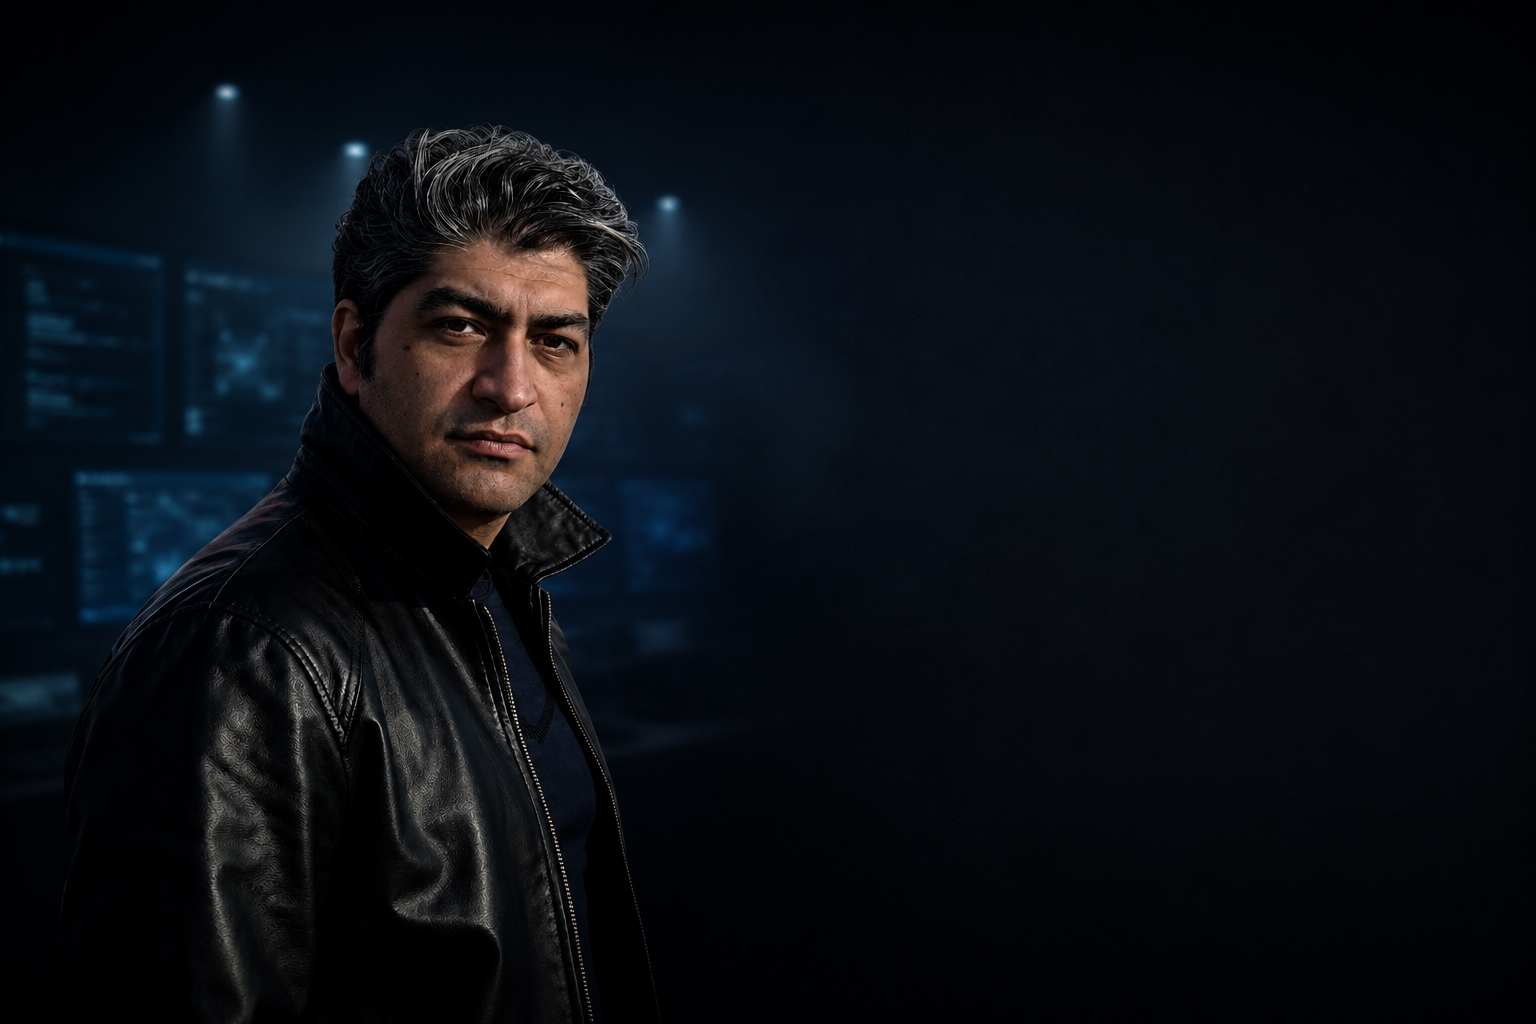
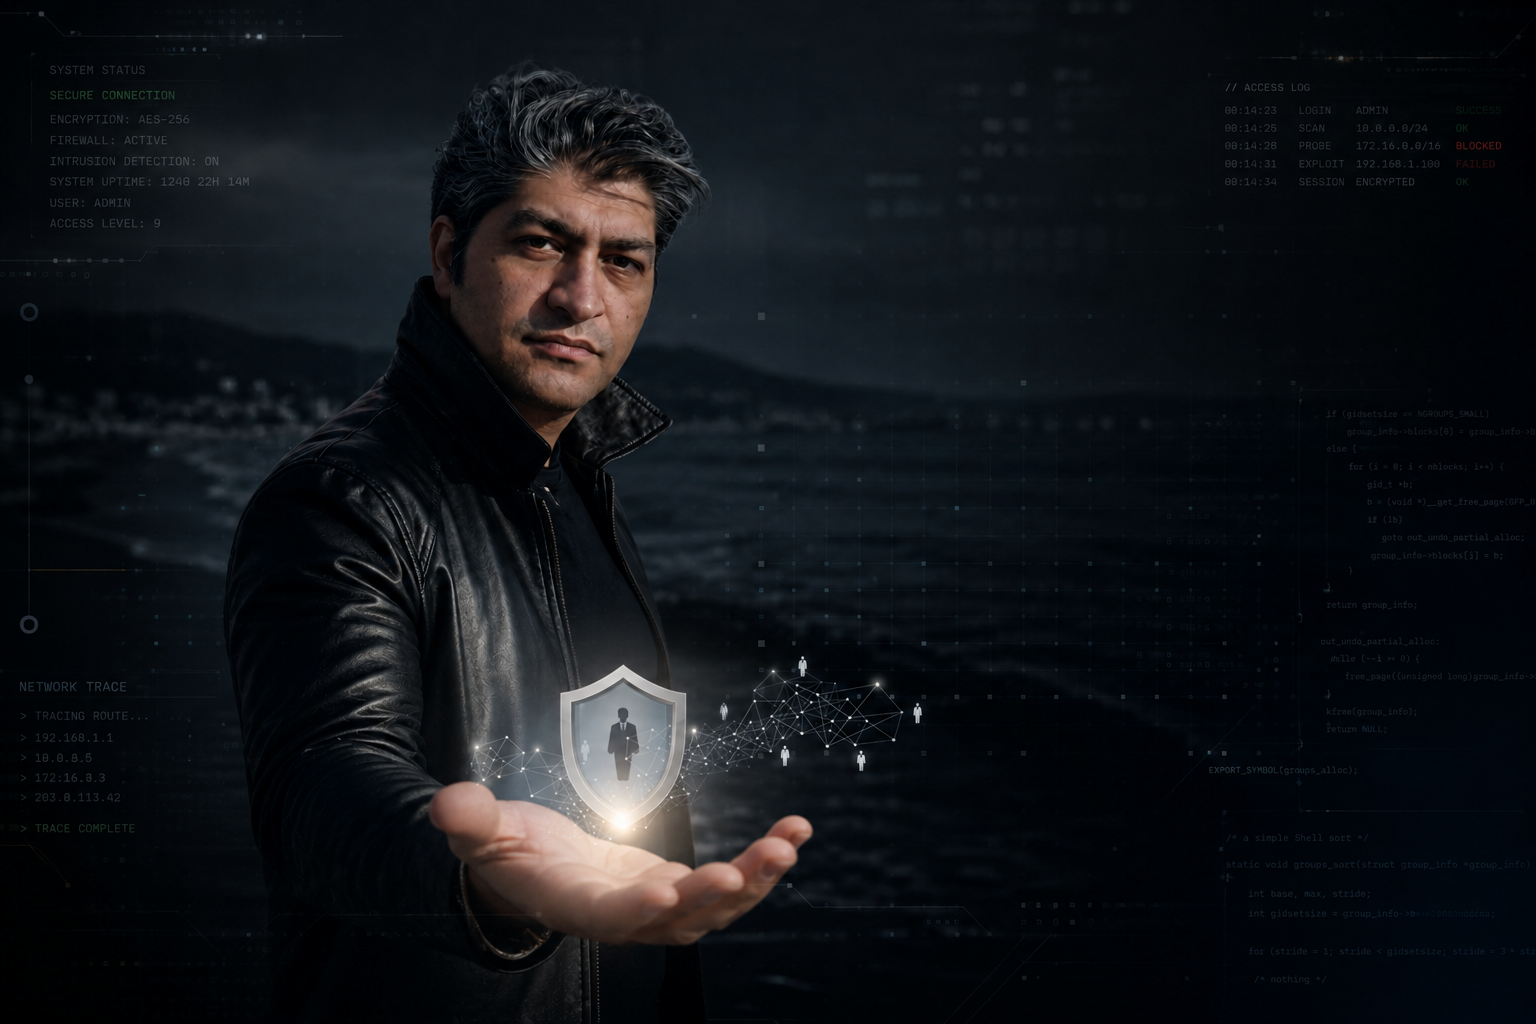
Add files via upload

diff --git a/index.html b/index.html
@@ -1,37 +1,202 @@
 <!DOCTYPE html>
-<html lang="en">
-
+<html lang="en" dir="ltr">
 <head>
-    <meta charset="UTF-8" />
-    <meta name="viewport" content="width=device-width, initial-scale=1.0" />
-    <meta name="theme-color" content="#050505" />
+    <meta charset="UTF-8">
+    <meta name="viewport" content="width=device-width, initial-scale=1.0">
+    <title>Kambiz Sardari • Cybersecurity Specialist</title>
+    <script src="https://cdn.tailwindcss.com"></script>
+    <link href="https://fonts.googleapis.com/css2?family=Inter:wght@400;500;600&amp;family=Space+Grotesk:wght@500;600&amp;display=swap" rel="stylesheet">
+    <style>
+        @import url('https://fonts.googleapis/css2?family=Inter:wght@400;500;600&amp;family=Space+Grotesk:wght@500;600&amp;display=swap');
 
-    <title>Under Construction</title>
+        .tail-container { font-family: 'Inter', system_ui, sans-serif; }
+        .logo-font { font-family: 'Space Grotesk', sans-serif; }
 
-    <link rel="stylesheet" href="style.css" />
+        .hero-bg {
+            background-image: url('background.png'); 
+            background-size: cover;
+            background-position: center;
+        }
+
+        .hero-bg::before {
+            content: '';
+            position: absolute;
+            inset: 0;
+            background: linear-gradient(to bottom, rgba(0,0,0,0.65) 40%, rgba(0,0,0,0.92) 100%);
+            transition: opacity 1.8s cubic-bezier(0.23, 1, 0.32, 1);
+            z-index: 1;
+        }
+
+        .scroll-indicator { animation: scrollAnim 2s infinite; }
+        @keyframes scrollAnim { 0%,100% {opacity:1;} 50%{opacity:0.4;} }
+
+        .nav-link { transition: all 0.3s cubic-bezier(0.4,0,0.2,1); }
+        .nav-link:hover { color:#00b4ff; transform:translateY(-1px); }
+
+        .card { transition: all 0.4s cubic-bezier(0.4,0,0.2,1); }
+        .card:hover { transform: translateY(-6px); }
+    </style>
 </head>
+<body class="bg-black text-white overflow-x-hidden">
 
-<body>
-
-    <!-- Background -->
-    <div class="background"></div>
-
-    <!-- Cinematic Overlay -->
-    <div class="vignette"></div>
-
-    <!-- Soft Light -->
-    <div class="top-light"></div>
-
-    <!-- Main Content -->
-    <main class="content">
-
-        <div class="title">
-            <span>UNDER</span>
-            <span>CONSTRUCTION</span>
+    <!-- HERO -->
+    <header id="hero" class="hero-bg min-h-screen flex items-center relative">
+        <div class="max-w-screen-2xl mx-auto px-8 text-center relative z-10">
+            <div class="max-w-3xl mx-auto">
+                <h1 class="text-5xl md:text-6xl font-semibold leading-none tracking-tighter logo-font mb-2">
+                    Kambiz Sardari
+                </h1>
+                <h2 class="text-4xl md:text-5xl font-semibold leading-none tracking-tighter logo-font text-white/90">
+                    Cybersecurity Specialist
+                </h2>
+            </div>
         </div>
 
-    </main>
+        <!-- SCROLL INDICATOR -->
+        <div class="absolute bottom-12 left-1/2 -translate-x-1/2 flex flex-col items-center scroll-indicator">
+            <div class="text-xs tracking-widest mb-3">SCROLL TO EXPLORE</div>
+            <div class="w-px h-12 bg-gradient-to-b from-transparent via-white/40 to-transparent"></div>
+        </div>
 
+        <!-- FADING HACKER -->
+        <div id="hacker" class="absolute bottom-0 left-0 right-0 h-2/3 bg-gradient-to-t from-black via-transparent to-transparent pointer-events-none"></div>
+
+        <!-- DECOR -->
+        <div class="absolute inset-0 bg-[radial-gradient(at_top_right,#00b4ff22_0%,transparent_50%)]"></div>
+    </header>
+
+    <!-- SERVICES -->
+    <section id="services" class="py-20 max-w-screen-2xl mx-auto px-8">
+        <div class="text-center mb-16">
+            <div class="logo-font text-4xl font-semibold tracking-tighter">My expertise</div>
+            <p class="text-white/60 mt-4 text-sm max-w-md mx-auto">Services based on science and real experiences</p>
+        </div>
+
+        <div class="grid grid-cols-1 sm:grid-cols-2 lg:grid-cols-3 gap-6">
+            <div class="card bg-white/5 border border-white/10 rounded-2xl p-6">
+                <div class="w-11 h-11 bg-emerald-500/10 rounded-2xl flex items-center justify-center mb-6">
+                    <span class="text-3xl">🔴</span>
+                </div>
+                <h3 class="text-xl font-semibold mb-2">Red Teaming</h3>
+                <p class="text-white/70 leading-relaxed text-xs">Simulate real attacks to expose vulnerabilities and strengthen defenses</p>
+                <div class="mt-8 text-xs text-white/50">• 14 years experience</div>
+            </div>
+
+            <div class="card bg-white/5 border border-white/10 rounded-2xl p-6">
+                <div class="w-11 h-11 bg-rose-500/10 rounded-2xl flex items-center justify-center mb-6">
+                    <span class="text-3xl">⛏️</span>
+                </div>
+                <h3 class="text-xl font-semibold mb-2">Penetration Testing</h3>
+                <p class="text-white/70 leading-relaxed text-xs">Professional ethical hacking to find and fix security weaknesses</p>
+                <div class="mt-8 text-xs text-white/50">• 98% satisfaction</div>
+            </div>
+
+            <div class="card bg-white/5 border border-white/10 rounded-2xl p-6">
+                <div class="w-11 h-11 bg-amber-500/10 rounded-2xl flex items-center justify-center mb-6">
+                    <span class="text-3xl">🛡️</span>
+                </div>
+                <h3 class="text-xl font-semibold mb-2">Incident Response</h3>
+                <p class="text-white/70 leading-relaxed text-xs">Rapid containment and recovery from security breaches</p>
+                <div class="mt-8 text-xs text-white/50">• 100% mobile</div>
+            </div>
+
+            <div class="card bg-white/5 border border-white/10 rounded-2xl p-6">
+                <div class="w-11 h-11 bg-violet-500/10 rounded-2xl flex items-center justify-center mb-6">
+                    <span class="text-3xl">🔒</span>
+                </div>
+                <h3 class="text-xl font-semibold mb-2">Zero Trust Architecture</h3>
+                <p class="text-white/70 leading-relaxed text-xs">Modern security model assuming breach at any moment</p>
+                <div class="mt-8 text-xs text-white/50">• 14 years experience</div>
+            </div>
+
+            <div class="card bg-white/5 border border-white/10 rounded-2xl p-6">
+                <div class="w-11 h-11 bg-sky-500/10 rounded-2xl flex items-center justify-center mb-6">
+                    <span class="text-3xl">🔍</span>
+                </div>
+                <h3 class="text-xl font-semibold mb-2">Threat Hunting</h3>
+                <p class="text-white/70 leading-relaxed text-xs">Proactive search for hidden threats in your environment</p>
+                <div class="mt-8 text-xs text-white/50">• 98% satisfaction</div>
+            </div>
+
+            <div class="card bg-white/5 border border-white/10 rounded-2xl p-6">
+                <div class="w-11 h-11 bg-emerald-500/10 rounded-2xl flex items-center justify-center mb-6">
+                    <span class="text-3xl">📊</span>
+                </div>
+                <h3 class="text-xl font-semibold mb-2">Security Automation</h3>
+                <p class="text-white/70 leading-relaxed text-xs">AI-driven scripts and tools to respond to threats instantly</p>
+                <div class="mt-8 text-xs text-white/50">• 100% mobile</div>
+            </div>
+        </div>
+    </section>
+
+    <!-- CONTACT -->
+    <section id="contact" class="py-28 border-t border-white/10">
+        <div class="max-w-screen-2xl mx-auto px-8">
+            <div class="grid md:grid-cols-12 gap-16">
+                <div class="md:col-span-5">
+                    <div class="sticky top-28">
+                        <div class="logo-font text-5xl font-semibold tracking-tighter">Trust is not given. It is earned.</div>
+                        <p class="text-white/60 mt-6 text-sm">Just copy this code into an HTML file and you're done. No complexity, no copyright — just pure beauty.</p>
+                        
+                        <div class="mt-8 text-sm">
+                            <div class="text-white/70 font-medium">
+                                If protecting your information is a priority for you or your organization, you can contact me directly. I provide professional and fully customized cybersecurity solutions as a specialist in this field.
+                            </div>
+                        </div>
+                    </div>
+                </div>
+
+                <div class="md:col-span-7 bg-white/5 border border-white/10 rounded-3xl p-10 md:p-16">
+                    <form id="contactForm" class="space-y-6">
+                        <div><input type="text" placeholder="Your name" class="w-full bg-transparent border-b border-b border-white/30 pb-3 text-sm focus:outline-none focus:border-white/70 transition-colors"></div>
+                        <div><input type="email" placeholder="Your email" class="w-full bg-transparent border-b border-b border-white/30 pb-3 text-sm focus:outline-none focus:border-white/70 transition-colors"></div>
+                        <div><textarea placeholder="Short message..." rows="3" class="w-full bg-transparent border-b border-b border-white/30 pb-3 text-sm resize-none focus:outline-none focus:border-white/70 transition-colors"></textarea></div>
+                        <button type="button" onclick="submitForm(this)" class="w-full py-5 bg-white text-black rounded-3xl text-sm font-semibold hover:bg-white/90 transition-all">Send</button>
+                    </form>
+                </div>
+            </div>
+        </div>
+    </section>
+
+    <footer class="border-t border-white/10 py-12 text-center text-white/30 text-xs">
+        © 2026 Kambiz Sardari • All rights reserved.</footer>
+
+    <script>
+        function initHackerFade() {
+            const hacker = document.getElementById('hacker');
+            if (!hacker) return;
+            let opacity = 0.65;
+            const interval = setInterval(() => {
+                opacity -= 0.012;
+                if (opacity <= 0) { clearInterval(interval); hacker.style.opacity = '0'; } else hacker.style.opacity = opacity.toString();
+            }, 60);
+        }
+
+        function submitForm(btn) {
+            const original = btn.textContent;
+            btn.textContent = 'Sent ✓';
+            btn.style.backgroundColor = '#22c55e';
+            btn.style.color = 'black';
+            setTimeout(() => {
+                btn.textContent = original;
+                btn.style.backgroundColor = '';
+                btn.style.color = '';
+                document.getElementById('contactForm').reset();
+            }, 2200);
+        }
+
+        document.querySelectorAll('a[href^="#"]').forEach(a => {
+            a.addEventListener('click', e => {
+                if (a.getAttribute('href') === '#') return;
+                e.preventDefault();
+                const t = document.querySelector(a.getAttribute('href'));
+                t && t.scrollIntoView({behavior:'smooth'});
+            });
+        });
+
+        window.onload = () => {
+            initHackerFade();
+        };
+    </script>
 </body>
-
 </html>